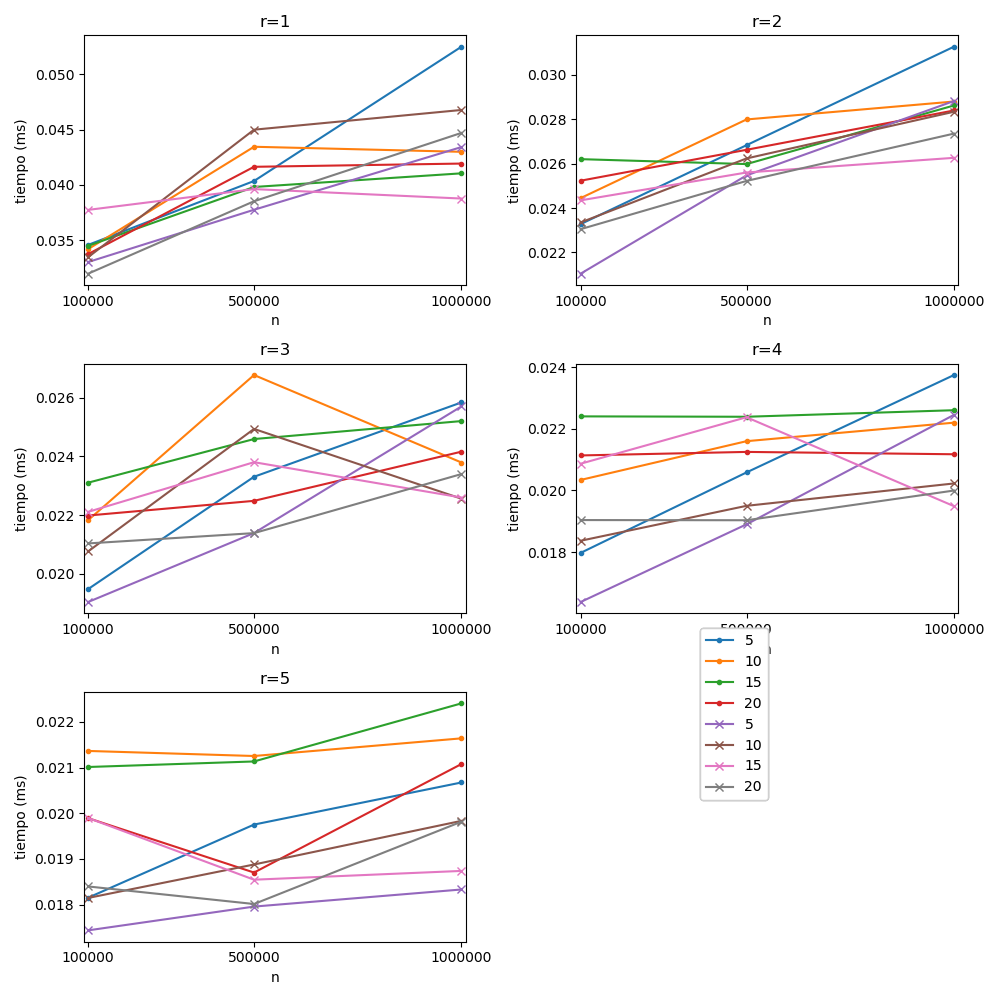
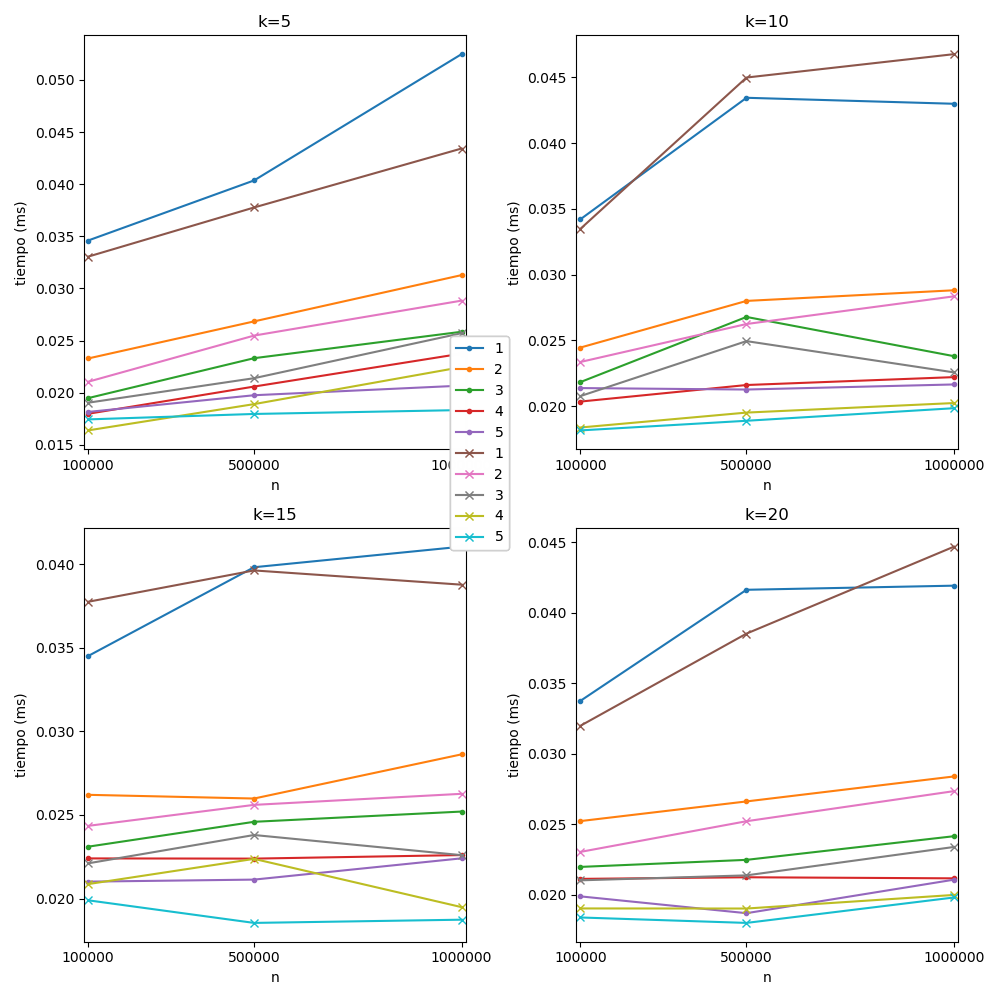
Algunas  conclusiones

diff --git a/analisis.py b/analisis.py
@@ -68,30 +68,30 @@ if __name__ == '__main__':
 
     fig = plt.figure(figsize=(10,10))
     # Tiempo buscar positivo vs k
-    for i, r in enumerate(range(1, 5+1)):
-        ax = fig.add_subplot(f'32{i+1}')
+    for i, k in enumerate([5, 10, 15, 20]):
+        ax = fig.add_subplot(f'22{i+1}')
         (
-            df_buscar_pos_kdr[df_buscar_pos_kdr['r'] == r]
-            .groupby(['k', 'n'], as_index=False)['tiempo']
+            df_buscar_pos_kdr[df_buscar_pos_kdr['k'] == k]
+            .groupby(['r', 'n'], as_index=False)['tiempo']
             .mean()
-            .pivot(index='n', columns='k', values='tiempo')
+            .pivot(index='n', columns='r', values='tiempo')
             .plot(style='.-', ax=ax)
         )
         (
-            df_buscar_neg_kdr[df_buscar_neg_kdr['r'] == r]
-            .groupby(['k', 'n'], as_index=False)['tiempo']
+            df_buscar_neg_kdr[df_buscar_neg_kdr['k'] == k]
+            .groupby(['r', 'n'], as_index=False)['tiempo']
             .mean()
-            .pivot(index='n', columns='k', values='tiempo')
+            .pivot(index='n', columns='r', values='tiempo')
             .plot(style='x-', ax=ax)
         )
         ax.set_xlim([10**5 - 10**4, 10**6 + 10**4])
         ax.set_ylabel('tiempo (ms)')
         ax.set_xticks([10**5, 5 * 10**5, 10**6])
         ax.margins(.05)
-        ax.title.set_text(f'r={r}')
+        ax.title.set_text(f'k={k}')
         ax.get_legend().remove()
         handles, labels = ax.get_legend_handles_labels()
-        fig.legend(handles, labels, loc=(0.7, 0.2))
+        fig.legend(handles, labels, loc=(0.45, 0.45))
     fig.tight_layout()
     plt.savefig(f'informe/img/buscar_n.png')
 

diff --git a/informe/chapters/analisis.tex b/informe/chapters/analisis.tex
@@ -19,22 +19,38 @@
   \end{center}
 \end{figure}
 
+En las figuras \ref{fig:buscar-pos} y \ref{fig:buscar-neg} podemos
+ver un crecimiento ligeramente cercano al logarítmico (que con tan solo 3
+valores para \(n\)\footnote{Como se indica en la consigna} es dificil
+distinguir).
+
+La diferencia para distintos r (dado un k) se observa en la figura
+\ref{fig:buscar}, y en todos los casos podemos observar que el árbol
+con mayor r tiene un mejor rendimiento para las búsquedas tanto positivas como
+negativas.
+
 \begin{figure}
   \begin{center}
   \includegraphics[width=.7\textwidth]{buscar_n}
   \caption{Tiempo de búsqueda (positiva y negativa)
     según n, para distintos valores de r y k.}
-  \label{fig:buscar-neg}
+  \label{fig:buscar}
   \end{center}
 \end{figure}
 
+Esto se alinea con el desarrollo teórico, ya que \(r\) indica el factor de
+ramificación, y cuanto mayor sea menos niveles debe recorrer hasta completar la
+búsqueda.
+
+Se observa una pequeña superioridad de las búsquedas negativas ante las positivas,
+pero la diferencia no es significativa.
 
 \begin{figure}
   \begin{center}
   \includegraphics[width=.7\textwidth]{buscar_pos_kd_n}
   \caption{Tiempo de búsqueda (positiva)
     según n, para distintos valores de r y k, comparado con el arbol kd.}
-  \label{fig:pos-vs-kd}
+  \label{fig:pos-kd}
   \end{center}
 \end{figure}
 
@@ -44,6 +60,6 @@
   \includegraphics[width=.7\textwidth]{buscar_neg_kd_n}
   \caption{Tiempo de búsqueda (negativa)
     según n, para distintos valores de r y k, comparado con el arbol kd.}
-  \label{fig:pos-vs-kd}
+  \label{fig:neg-kd}
   \end{center}
 \end{figure}
